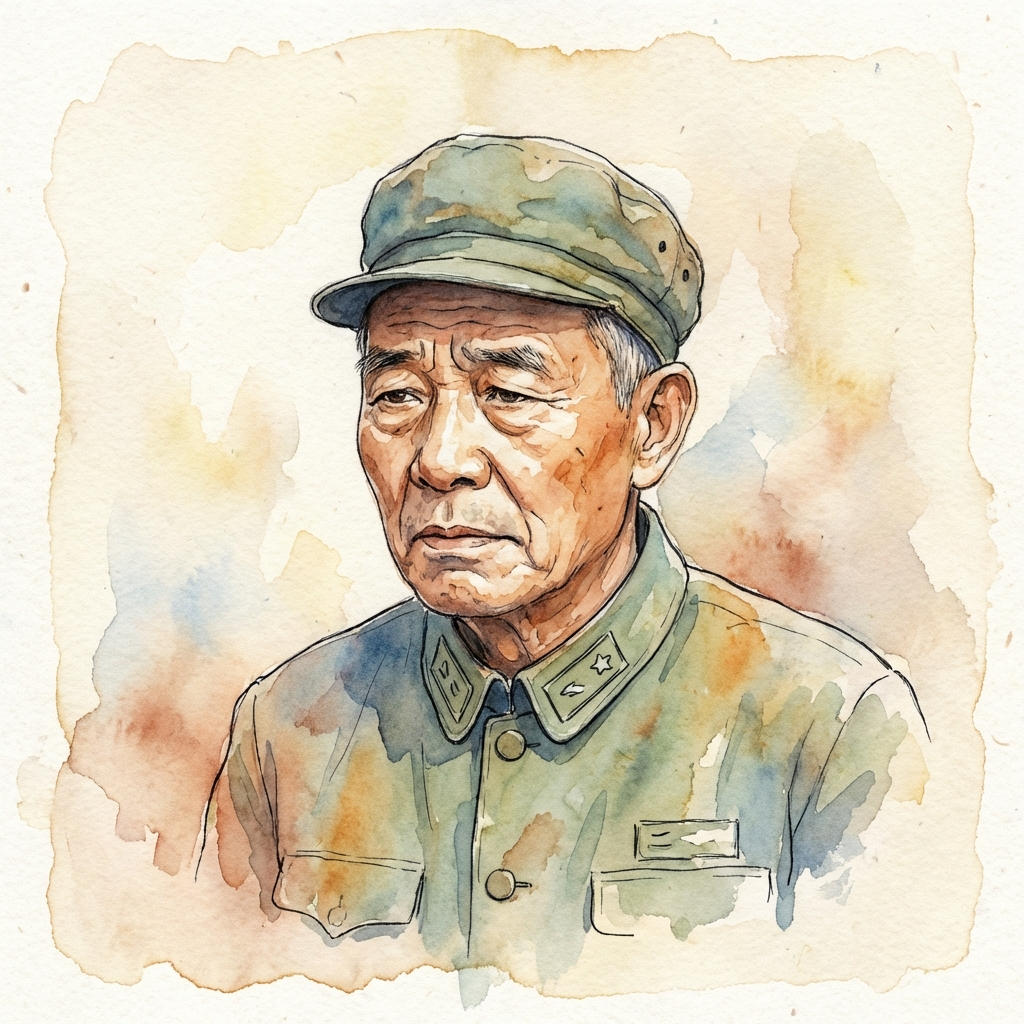
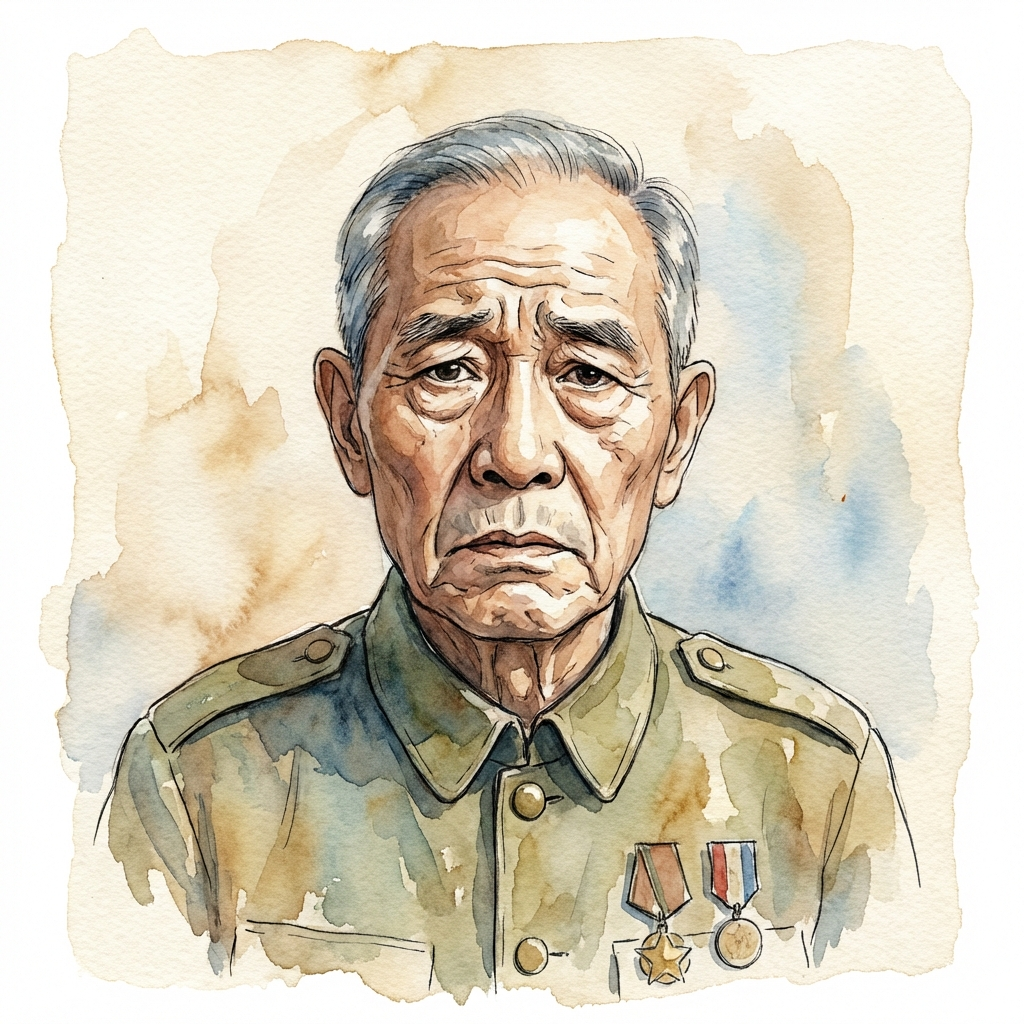
fix(inventory): Remove redundant left border status indicator
Status is already shown via the top status badge. Remove the colored
left border to reduce visual redundancy.

diff --git a/components/ui/ItemCard.tsx b/components/ui/ItemCard.tsx
@@ -25,38 +25,30 @@ export const ItemCard: React.FC<ItemCardProps> = ({ item, currentDay, actions })
 
   let statusColor = "bg-stone-600";
   let statusText = "UNKNOWN";
-  let borderColor = "border-noir-400";
 
   if (isReforged && isActive) {
     // Reforged active items are treated as owned (breach already occurred)
     statusColor = "bg-purple-600";
     statusText = "REFORGED (OWNED)";
-    borderColor = "border-purple-900";
   } else if (isForfeit) {
     statusColor = "bg-red-600";
     statusText = "FORFEIT (OWNED)";
-    borderColor = "border-red-900";
   } else if (isSold) {
     statusColor = "bg-noir-500";
     statusText = "SOLD";
-    borderColor = "border-noir-500 opacity-60";
   } else if (isRedeemed) {
     statusColor = "bg-green-600";
     statusText = "REDEEMED";
-    borderColor = "border-green-900";
   } else if (isActive) {
     if (daysLeft <= 1) {
         statusColor = "bg-red-500 animate-pulse";
         statusText = `CRITICAL: ${daysLeft}D`;
-        borderColor = "border-red-500";
     } else if (daysLeft <= 3) {
         statusColor = "bg-amber-600";
         statusText = `WARNING: ${daysLeft}D`;
-        borderColor = "border-amber-600";
     } else {
         statusColor = "bg-emerald-600";
         statusText = `ACTIVE: ${daysLeft}D`;
-        borderColor = "border-emerald-900";
     }
   }
 
@@ -64,7 +56,7 @@ export const ItemCard: React.FC<ItemCardProps> = ({ item, currentDay, actions })
   const treatedAsOwned = isReforged && isActive;
 
   return (
-    <div className={cn("relative flex flex-col bg-noir-200 border-l-4 shadow-sm transition-all duration-300 group overflow-hidden font-mono", borderColor)}>
+    <div className="relative flex flex-col bg-noir-200 shadow-sm transition-all duration-300 group overflow-hidden font-mono">
       <div className="p-4 flex-1 flex flex-col gap-3">
         {/* Header: Status Badge */}
         <div className="flex items-center">
